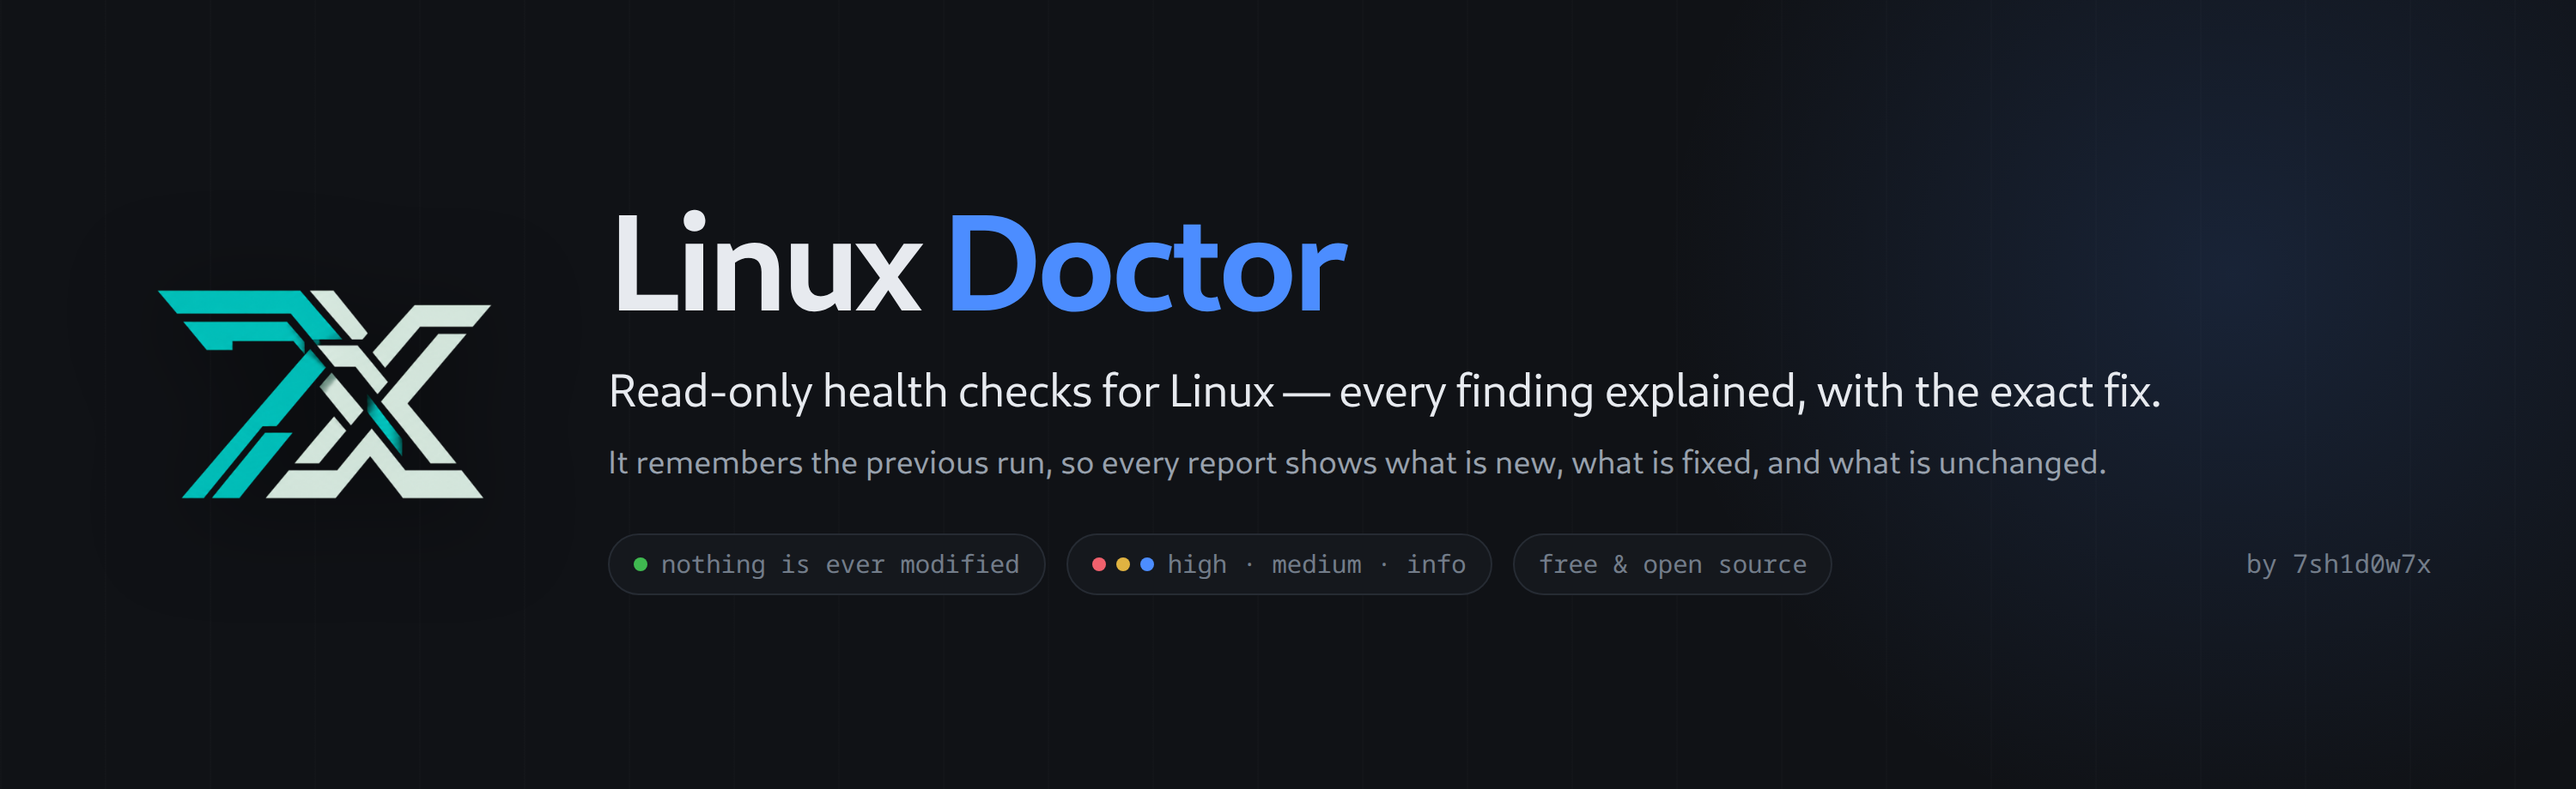
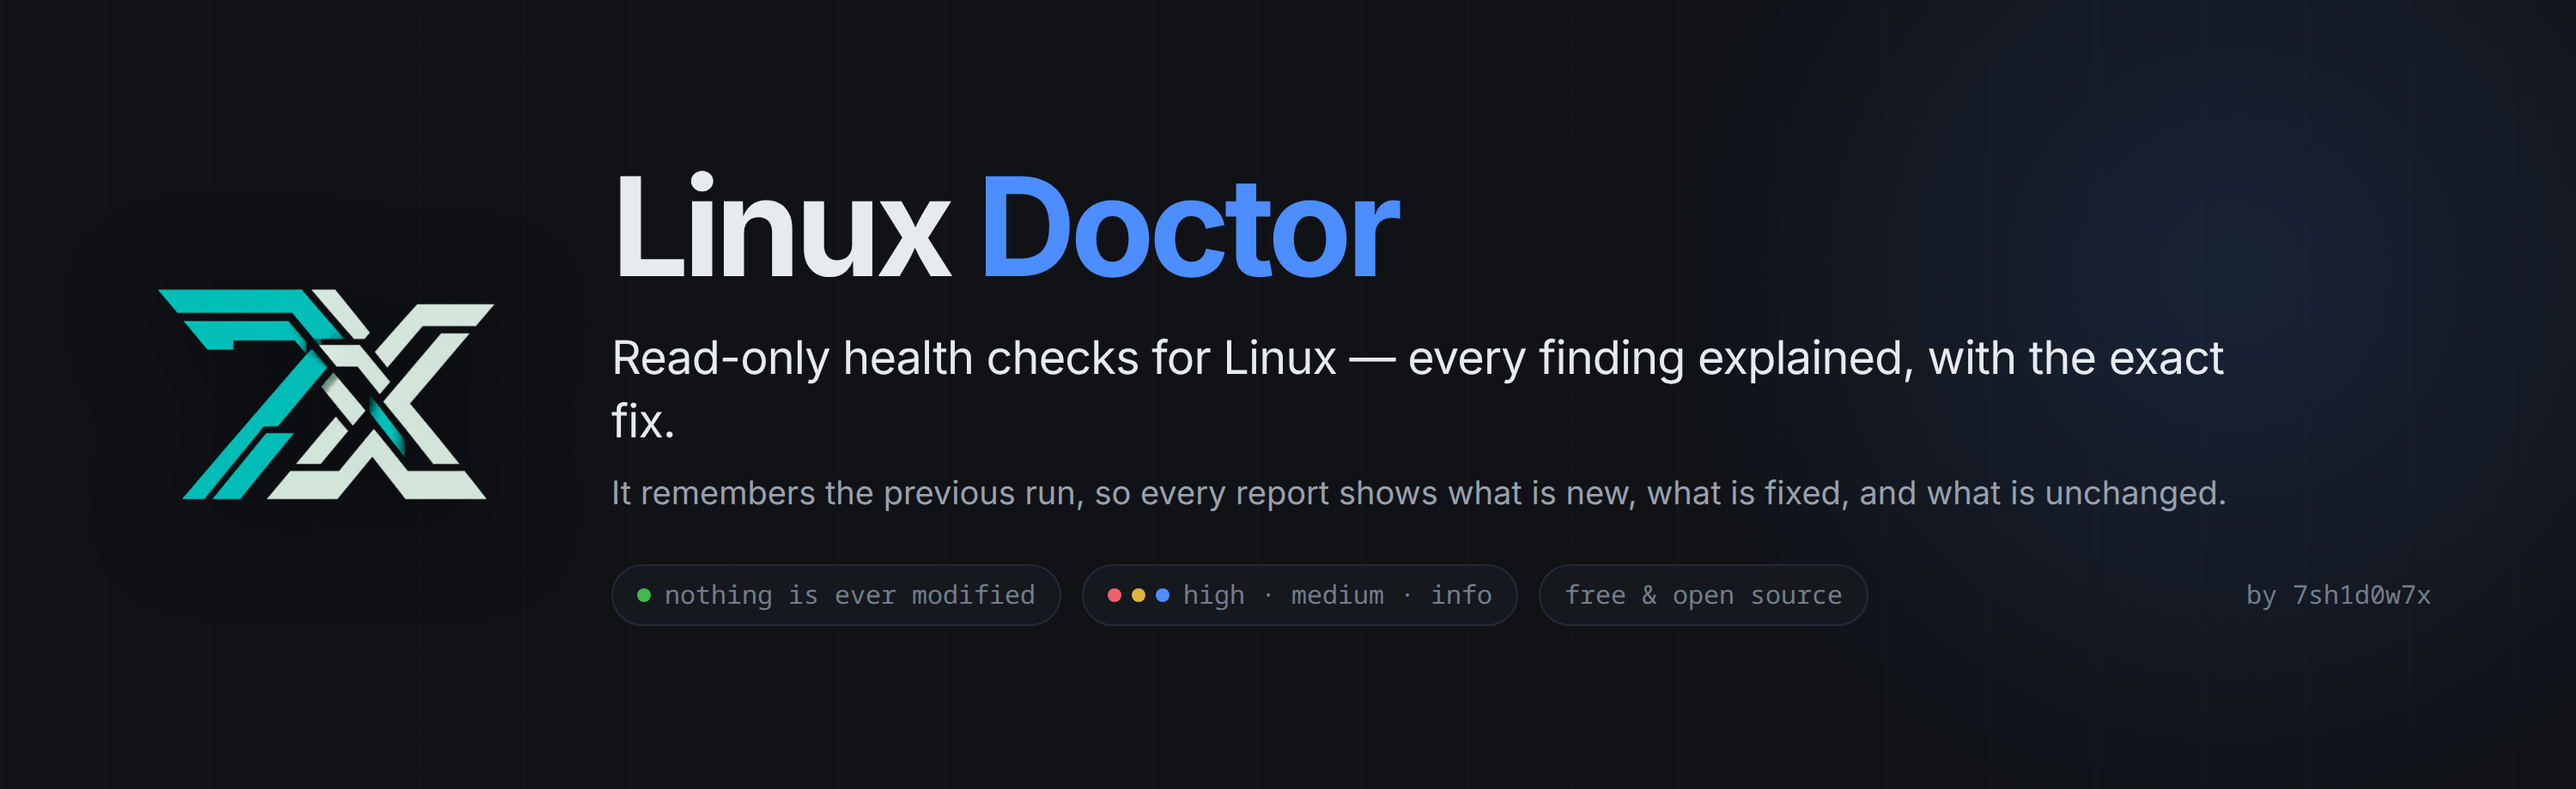
fix(ci): update rustls, and track the zip advisories with reasons (#55)
* docs(brand): keep the banner source, add the dev.to cover

The banner existed only as a rendered PNG produced from an HTML file in
/tmp, so it could not be reproduced once that file was gone. The source now
lives in docs/brand/banner.html and launch/shot-banner.mjs renders it at any
size from the app's own tokens.

Adds docs/banner-devto.png at 1000x420, the ratio dev.to wants for a cover;
the README banner is 1500x460 and would be cropped there.

Also ignores .obsidian/, which is vault configuration rather than project
content.

* fix(ci): update rustls, and track the zip advisories with reasons

The audit's exit code came from 7 vulnerabilities, not from warnings (it
allows warnings). Two crates:

- rustls 0.23.45 -> 0.23.46, which clears RUSTSEC-2026-0346/0347/0348/0349
  (TLS secret exposure, ECH downgrade, Brotli allocation). It arrives through
  reqwest <- tauri-plugin-updater; the patch is compatible.
- zip 4.6.1 has three advisories (one critical) in archive extraction. Every
  published tauri-plugin-updater still requires zip ^4 — 2.11 through 2.14 and
  3.0.0-alpha.3 — so it cannot be fixed here. Recorded in
  src-tauri/.cargo/audit.toml with the reasoning: the updater extracts only
  this project's own signed bundle, so the input is not third-party.

diff --git a/docs/brand/banner.html b/docs/brand/banner.html
@@ -1,0 +1,40 @@
+<!doctype html><html><head><meta charset="utf-8"><style>
+  :root{ --bg:#101216; --bg2:#15181d; --line:#262b33; --ink:#e7eaef; --muted:#98a1ad; --muted2:#737d8a;
+         --accent:#4c8dff; --green:#3fb950; --yellow:#e0b341; --red:#f0616d; --mark:__MARK__; }
+  *{box-sizing:border-box;margin:0}
+  body{width:__W__px;height:__H__px;background:var(--bg);color:var(--ink);
+       font-family:Inter,"Cantarell",system-ui,sans-serif;overflow:hidden;position:relative}
+  .grid{position:absolute;inset:0;opacity:.6;background:repeating-linear-gradient(90deg, rgba(255,255,255,.018) 0 1px, transparent 1px 61px)}
+  .glow{position:absolute;right:-160px;top:-200px;width:720px;height:720px;border-radius:50%;
+        background:radial-gradient(circle, rgba(76,141,255,.14), transparent 65%)}
+  .in{position:relative;height:100%;display:flex;align-items:center;gap:__GAP__px;padding:0 __PAD__px}
+  .mark{height:__MK__px;width:auto;filter:drop-shadow(0 8px 28px rgba(0,0,0,.55))}
+  .txt{flex:1;min-width:0}
+  h1{font-size:__H1__px;font-weight:700;letter-spacing:-.04em;line-height:.95}
+  h1 span{color:var(--accent)}
+  .promise{margin-top:__M1__px;font-size:__P__px;line-height:1.35;letter-spacing:-.015em;max-width:960px}
+  .sub{margin-top:__M2__px;font-size:__S__px;color:var(--muted)}
+  .row{margin-top:__M3__px;display:flex;align-items:center;gap:12px;
+       font-family:ui-monospace,monospace;font-size:__R__px;color:var(--muted2)}
+  .pill{display:inline-flex;align-items:center;gap:8px;padding:__PP__;border:1px solid var(--line);border-radius:999px;background:var(--bg2)}
+  .dot{width:8px;height:8px;border-radius:50%;background:var(--green)}
+  .sev{display:inline-flex;gap:6px;align-items:center}
+  .sev i{width:8px;height:8px;border-radius:50%;display:block}
+  .by{margin-left:auto;font-size:__R__px;color:var(--muted2)}
+</style></head><body>
+  <div class="grid"></div><div class="glow"></div>
+  <div class="in">
+    <img class="mark" src="__MARKSRC__" alt="">
+    <div class="txt">
+      <h1>Linux <span>Doctor</span></h1>
+      <div class="promise">Read-only health checks for Linux &mdash; every finding explained, with the exact fix.</div>
+      <div class="sub">It remembers the previous run, so every report shows what is new, what is fixed, and what is unchanged.</div>
+      <div class="row">
+        <span class="pill"><span class="dot"></span> nothing is ever modified</span>
+        <span class="pill"><span class="sev"><i style="background:var(--red)"></i><i style="background:var(--yellow)"></i><i style="background:var(--accent)"></i></span> high &middot; medium &middot; info</span>
+        <span class="pill">free &amp; open source</span>
+        <span class="by">by 7sh1d0w7x</span>
+      </div>
+    </div>
+  </div>
+</body></html>
